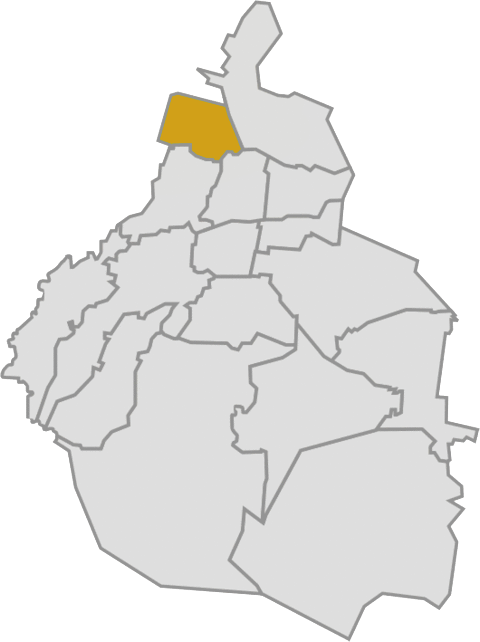
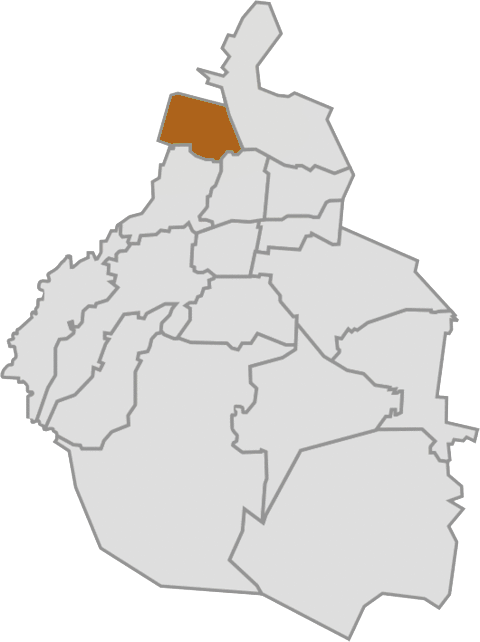
Tabique Hosting

Changed region(s): [[0.3125, 0.1246, 0.5, 0.2492]]

diff --git a/Tabique/pages/home.html b/Tabique/pages/home.html
@@ -30,7 +30,8 @@
     </div>
     <div id="right">
       <div class="backgroundImageWide">
-        <img src="../images/homeBG.jpg" alt="">
+        <!--<img src="../images/homeBG.jpg" alt="">-->
+        <div class="paralaxBG"></div>
       </div>
     </div>
   </div>
@@ -207,24 +208,6 @@
     </div>
   </div>
 
-  <!-- <div id="contentProyectos" class="fullVHSection">
-    <div id="metalWallBG2" class="noPointerEvents paralaxBG"></div>
-    <div id="contentProyectosHeader" class="contentHeaderSpaced contentWide">Nuestros <b>Proyectos</b></div>
-    <div class="bigButton contentWide" onclick="window.open('proyectos.html', '_blank');">
-      <div id="bigButtonBox">
-        <div id="bb1" class="bigButtonBoxText">ENTRA A</div>
-        <div id="bb2" class="bigButtonBoxText">NUESTRO</div>
-        <div id="bb3" class="bigButtonBoxText">CATÁLOGO</div>
-      </div>
-      <div id="bigButtonArrow">
-        <span id="bba1" class="glyphicon glyphicon-menu-right bigButtonArrowGlyph" aria-hidden="true"></span>
-        <span id="bba2" class="glyphicon glyphicon-menu-right bigButtonArrowGlyph" aria-hidden="true"></span>
-        <span id="bba3" class="glyphicon glyphicon-menu-right bigButtonArrowGlyph" aria-hidden="true"></span>
-      </div>
-    </div>
-  </div> -->
-
-
   <div id="headerBG"></div>
   <header>
     <div id="headerLogo">
@@ -249,22 +232,32 @@
   </header>
 
   <div id="hamburgerMenu">
-    <div id="inicioButtonHam" onclick="openBurger()" class="hamburgerElement">
+    <div id="inicioButtonHam" onclick="closeMobileContact();openBurger()" class="hamburgerElement">
       <a href="home.html">Inicio</a>
     </div>
-    <div id="quienesSomosButtonHam" onclick="openBurger()" class="hamburgerElement">
+    <div id="quienesSomosButtonHam" onclick="closeMobileContact();openBurger()" class="hamburgerElement">
       <a  href="home.html#contentNosotros">Nosotros</a>
     </div>
-    <div id="proyectosButtonHam" onclick="openBurger()" class="hamburgerElement">
+    <div id="proyectosButtonHam" onclick="closeMobileContact();openBurger()" class="hamburgerElement">
       <a href="home.html#contentProyectos">Proyectos</a>
     </div>
-    <div id="contactoButtonHam" onclick="openBurger()" class="hamburgerElement">
-      <a href="">Contacto</a>
+    <div id="contactoButtonHam" onclick="openBurger();openMobileContact()" class="hamburgerElement">
+      <a>Contacto</a>
     </div>
     <div id="socialMediaButtonHam" class="hamburgerElement">
       <div id="socialMediaHam">
         <img onclick="window.open('https://www.facebook.com/tbq007/')" src="../images/facebook.png" alt="">
         <img onclick="window.open('https://www.instagram.com/TabiqueArquitectos/')" src="../images/instagram.png" alt="">
+      </div>
+    </div>
+  </div>
+
+  <div id="contact">
+    <div id="contactInfo">
+      <a href="mailto:roberto@tabique.com.mx">roberto@tabique.com.mx</a>
+      <a href="tel:55-2955-4130">55 2955 4130</a>
+      <div class="burger burger-slide open" id="contactHamburger" onclick="closeMobileContact()">
+        <div class="burger-lines"></div>
       </div>
     </div>
   </div>
@@ -277,4 +270,5 @@
 <script src="../js/home.js"></script>
 <script src="../js/burger.js"></script>
 <script src="../js/proyectos.js"></script>
+<script src="../js/contact.js"></script>
 </html>

diff --git a/Tabique/js/home.js b/Tabique/js/home.js
@@ -11,6 +11,7 @@ $( document ).ready(function() {
     //Logo click
     $("#headerLogo").click(function() {
       removeSelectedClasses();
+      $("#contact").fadeOut(200);
       $("#inicioButton").addClass("headerBarElementSelected");
       $([document.documentElement, document.body]).animate({
           scrollTop: 0
@@ -20,6 +21,7 @@ $( document ).ready(function() {
     //Set the menu buttons
     $("#inicioButton").click(function() {
       removeSelectedClasses();
+      $("#contact").fadeOut(200);
       $("#inicioButton").addClass("headerBarElementSelected");
       $([document.documentElement, document.body]).animate({
           scrollTop: 0
@@ -28,6 +30,7 @@ $( document ).ready(function() {
 
     $("#quienesSomosButton").click(function() {
       removeSelectedClasses();
+      $("#contact").fadeOut(200);
       $("#quienesSomosButton").addClass("headerBarElementSelected");
       $([document.documentElement, document.body]).animate({
           scrollTop: $("#contentNosotros").offset().top
@@ -36,24 +39,33 @@ $( document ).ready(function() {
 
     $("#proyectosButton").click(function() {
       removeSelectedClasses();
+      $("#contact").fadeOut(200);
       $("#proyectosButton").addClass("headerBarElementSelected");
       $([document.documentElement, document.body]).animate({
           scrollTop: $("#contentProyectos").offset().top
       }, 1000);
     });
 
+    $("#contactoButton").click(function() {
+      removeSelectedClasses();
+      $("#contactoButton").addClass("headerBarElementSelected");
+      $("#contact").fadeIn(600);
+    });
+
     //Select header options depending on scroll position
     $(window).scroll(function() {
-        var scroll = $(window).scrollTop();
-        if (scroll < $("#contentLanding").height() / 2) {
-          removeSelectedClasses();
-          $("#inicioButton").addClass("headerBarElementSelected");
-        } else if(scroll > $("#contentNosotros").offset().top + ($("#contentProyectos").height() / 2)) {
-          removeSelectedClasses();
-          $("#proyectosButton").addClass("headerBarElementSelected");
-        } else if(scroll > $("#contentLanding").offset().top + ($("#contentNosotros").height() / 2)) {
-          removeSelectedClasses();
-          $("#quienesSomosButton").addClass("headerBarElementSelected");
+        if($("#contact").is(":hidden")){
+          var scroll = $(window).scrollTop();
+          if (scroll < $("#contentLanding").height() / 2) {
+            removeSelectedClasses();
+            $("#inicioButton").addClass("headerBarElementSelected");
+          } else if(scroll > $("#contentNosotros").offset().top + ($("#contentProyectos").height() / 2)) {
+            removeSelectedClasses();
+            $("#proyectosButton").addClass("headerBarElementSelected");
+          } else if(scroll > $("#contentLanding").offset().top + ($("#contentNosotros").height() / 2)) {
+            removeSelectedClasses();
+            $("#quienesSomosButton").addClass("headerBarElementSelected");
+          }
         }
     });
 

diff --git a/Tabique/css/style.css b/Tabique/css/style.css
@@ -6,7 +6,8 @@ Tabique black: #040707
 Light grey: #393E41
 Dark grey: #2b2e28
 Light gold: #ffeccc
-Bronze: #cd7f32
+Very light grey: #EEE
+Bronze: #AD631B
 */
 
 * {
@@ -105,11 +106,11 @@ header, #headerBG {
   margin-right: 20px;
 }
 
-/********Footer************/
+/***********Footer***********/
 
 footer {
   height: 100px;
-  background-color: #ffeccc;
+  background-color: #eee;
   width: 100%;
 }
 
@@ -118,6 +119,60 @@ footer img {
   display:block;
   margin:auto;
 }
+
+/***********Contact***********/
+
+#contact {
+	height: 100%;
+	width: 100%;
+	position: fixed;
+	top: 0;
+	left: 0;
+  z-index: 10;
+  background-color: #2b2e28;
+
+}
+
+#contactInfo {
+  width: 100%;
+  color: white;
+  font-weight: 200;
+  text-align: center;
+  display: flex;
+  flex-wrap: wrap;
+  position: absolute;
+  top: 50%;
+  -ms-transform: translateY(-50%);
+  transform: translateY(-50%);
+  font-size: 30px;
+}
+
+#contactInfo a {
+  color: white;
+  width: 100%;
+  margin-bottom: 20px;
+  transition: all 0.25s ease;
+}
+
+#contactInfo a:hover {
+  color: #d1a054;
+}
+
+#contactButterfly {
+  width: 10%;
+  margin-left: 45%;
+  margin-right: 45%;
+  margin-bottom: 20px;
+}
+
+#contactButterfly img {
+  display: block;
+  margin-left: auto;
+  margin-right: auto;
+  width: 100%;;
+}
+
+
 
 /* Mobile stuff */
 
@@ -131,7 +186,28 @@ footer img {
   position: fixed;
 }
 
+#contactHamburger {
+  margin-left: auto;
+  margin-right: auto;
+  margin-top: 10px;
+}
+
+#contactHamburger .burger-lines:before, #contactHamburger .burger-lines:after {
+  background-color: white !important;
+}
+
 @media only screen and (max-width: 1000px) {
+  #contactInfo {
+    font-size: 24px;
+  }
+
+  #contactButterfly {
+    width: 30%;
+    margin-left: 35%;
+    margin-right: 35%;
+    margin-bottom: 20px;
+  }
+
   #headerBar, #headerSocialMedia {
     display: none;
   }
@@ -147,19 +223,16 @@ footer img {
     display: none;
     box-shadow: 0px 4px 6px 0px rgb(0,0,0,.8);
     z-index: 99;
+    position: fixed;
+    top: 70px;
+    left: 0;
+    width: 100%;
   }
 
   #headerHamburgerContainer {
     margin-left: 50%;
     width: 10%;
     height: inherit;
-  }
-
-  #hamburgerMenu {
-    position: fixed;
-    top: 70px;
-    left: 0;
-    width: 100%;
   }
 
   .hamburgerElement {

diff --git a/Tabique/css/home.css b/Tabique/css/home.css
@@ -6,9 +6,16 @@ body {
 .paralaxBG {
   /* Create the parallax scrolling effect */
   background-attachment: fixed;
-  background-position: center;
+  background-position: right;
   background-repeat: no-repeat;
   background-size: cover;
+  height: 100vh;
+  background-image: url('../images/homeBG.jpg');
+  -moz-background-size: auto 100%;
+  -webkit-background-size: auto 100%;
+  -o-background-size: auto 100%;
+  background-size: 65% auto;
+  opacity: .8;
 }
 
 .columnThird {
@@ -56,6 +63,7 @@ body {
 #contentLandingMobile {
   position: relative;
   display: none;
+  background-color: #040707;
 }
 
 #contentLandingMobile img {
@@ -101,7 +109,7 @@ body {
 
 #contentLanding #left {
   width: 38%;
-  background-color: #cd7f32;
+  background-color: #AD631B;
   overflow: visible;
   z-index: 1;
   padding-top: 25vh;
@@ -135,7 +143,7 @@ body {
 /********Nosotros**********/
 
 #contentNosotros {
-  background-color: #ffeccc;
+  background-color: #eee;
   color: #393E41;
   z-index: 1;
   padding-top: 70px;
@@ -233,7 +241,7 @@ body {
 /********Footer************/
 
 footer {
-  background-color: #cd7f32;
+  background-color: #eee;
 }
 
 

diff --git a/Tabique/css/standaloneProject.css b/Tabique/css/standaloneProject.css
@@ -1,6 +1,6 @@
 
 body {
-  background-color: #ffeccc;
+  background-color: #eee;
   color: #393E41;
   min-height: 100vh;
   padding-top: 110px;
@@ -22,7 +22,8 @@ p {
   text-align: center;
   letter-spacing: 40px;
   font-weight: 300;
-  border: 2px solid #393E41;
+  border: 2px solid #AD631B;
+  color: #AD631B;
   text-align: center;
   padding-left: 40px;
 }

diff --git a/Tabique/css/proyectos.css b/Tabique/css/proyectos.css
@@ -22,7 +22,7 @@ html, body {
   width: 100%;
   text-align: center;
   color: #2b2e28;
-  background-color: #ffeccc;
+  background-color: #eee;
   padding-bottom: 30px;
 }
 

diff --git a/Tabique/js/contact.js b/Tabique/js/contact.js
@@ -1,0 +1,7 @@
+function closeMobileContact() {
+  $("#contact").fadeOut(200);
+}
+
+function openMobileContact() {
+  $("#contact").fadeIn(500);
+}
